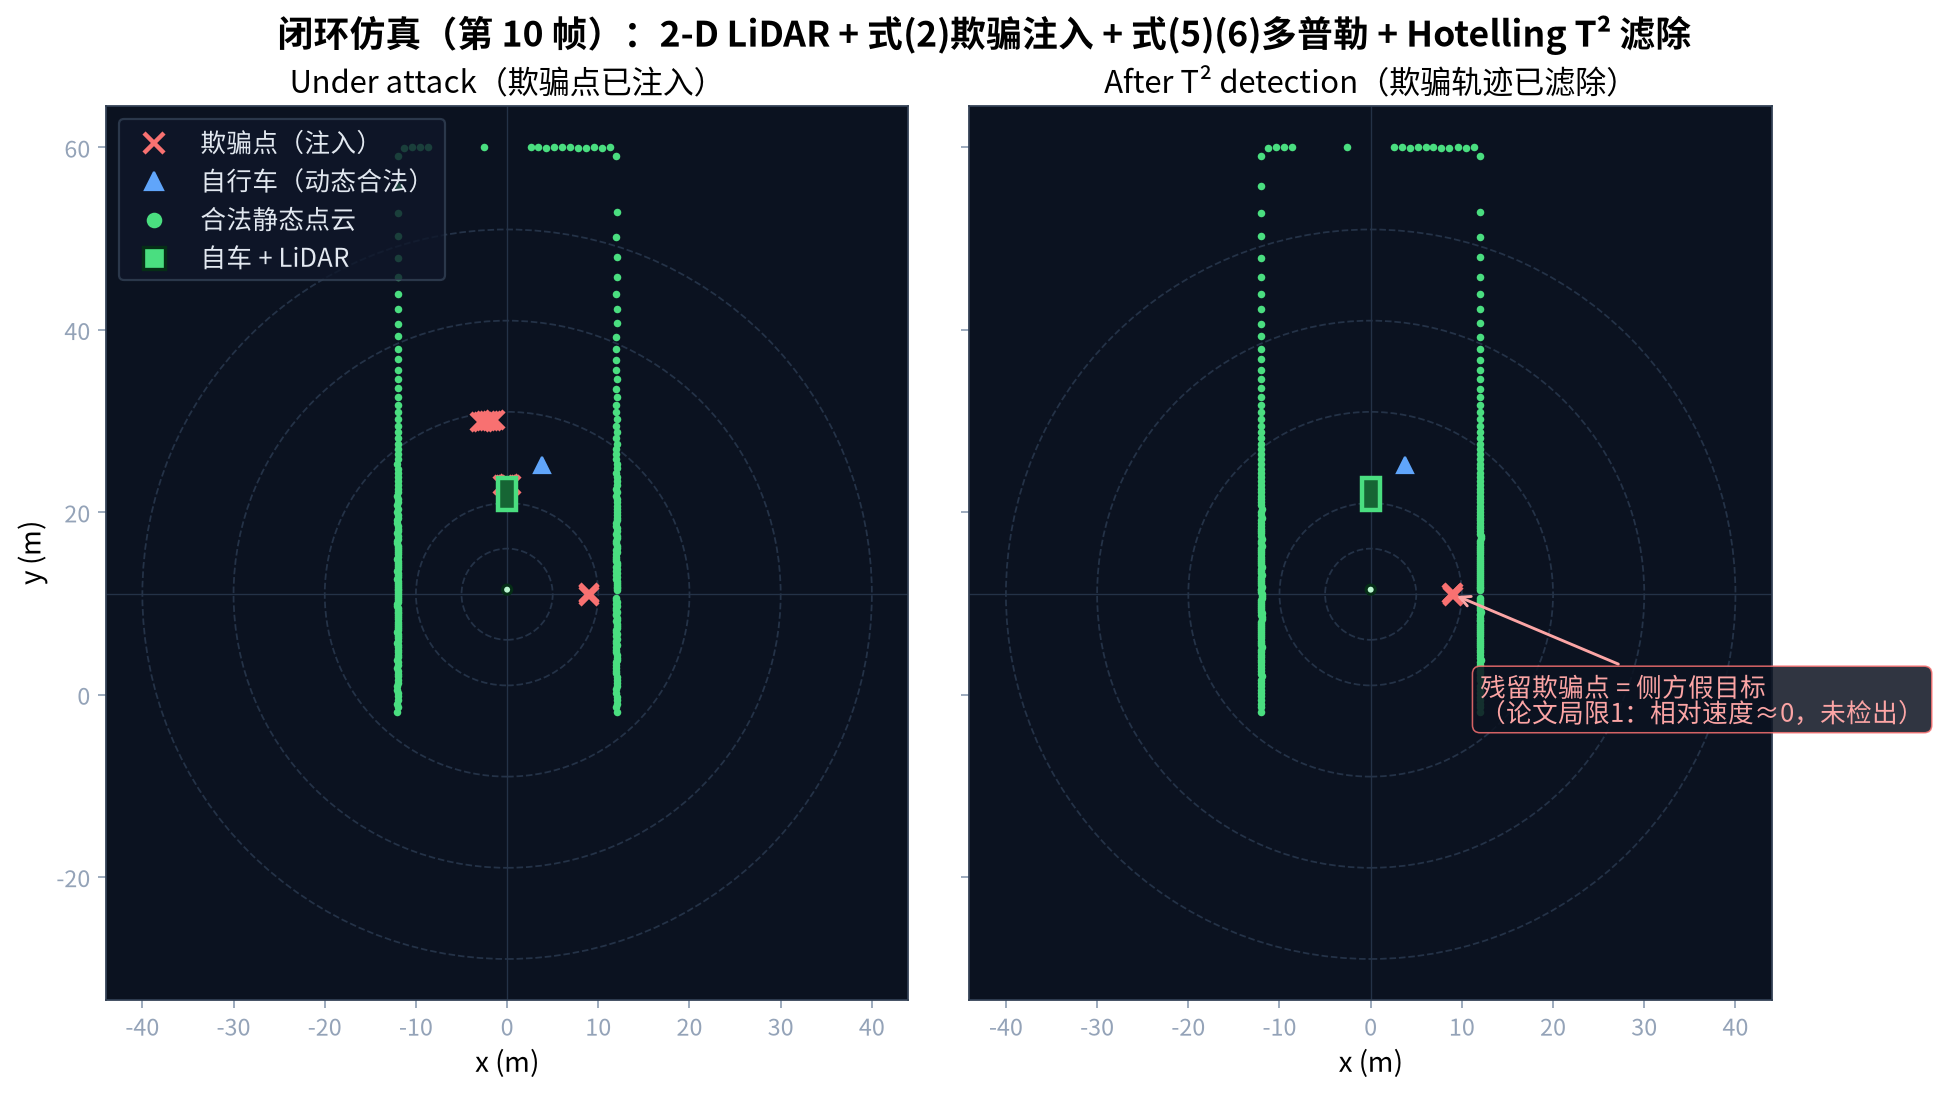
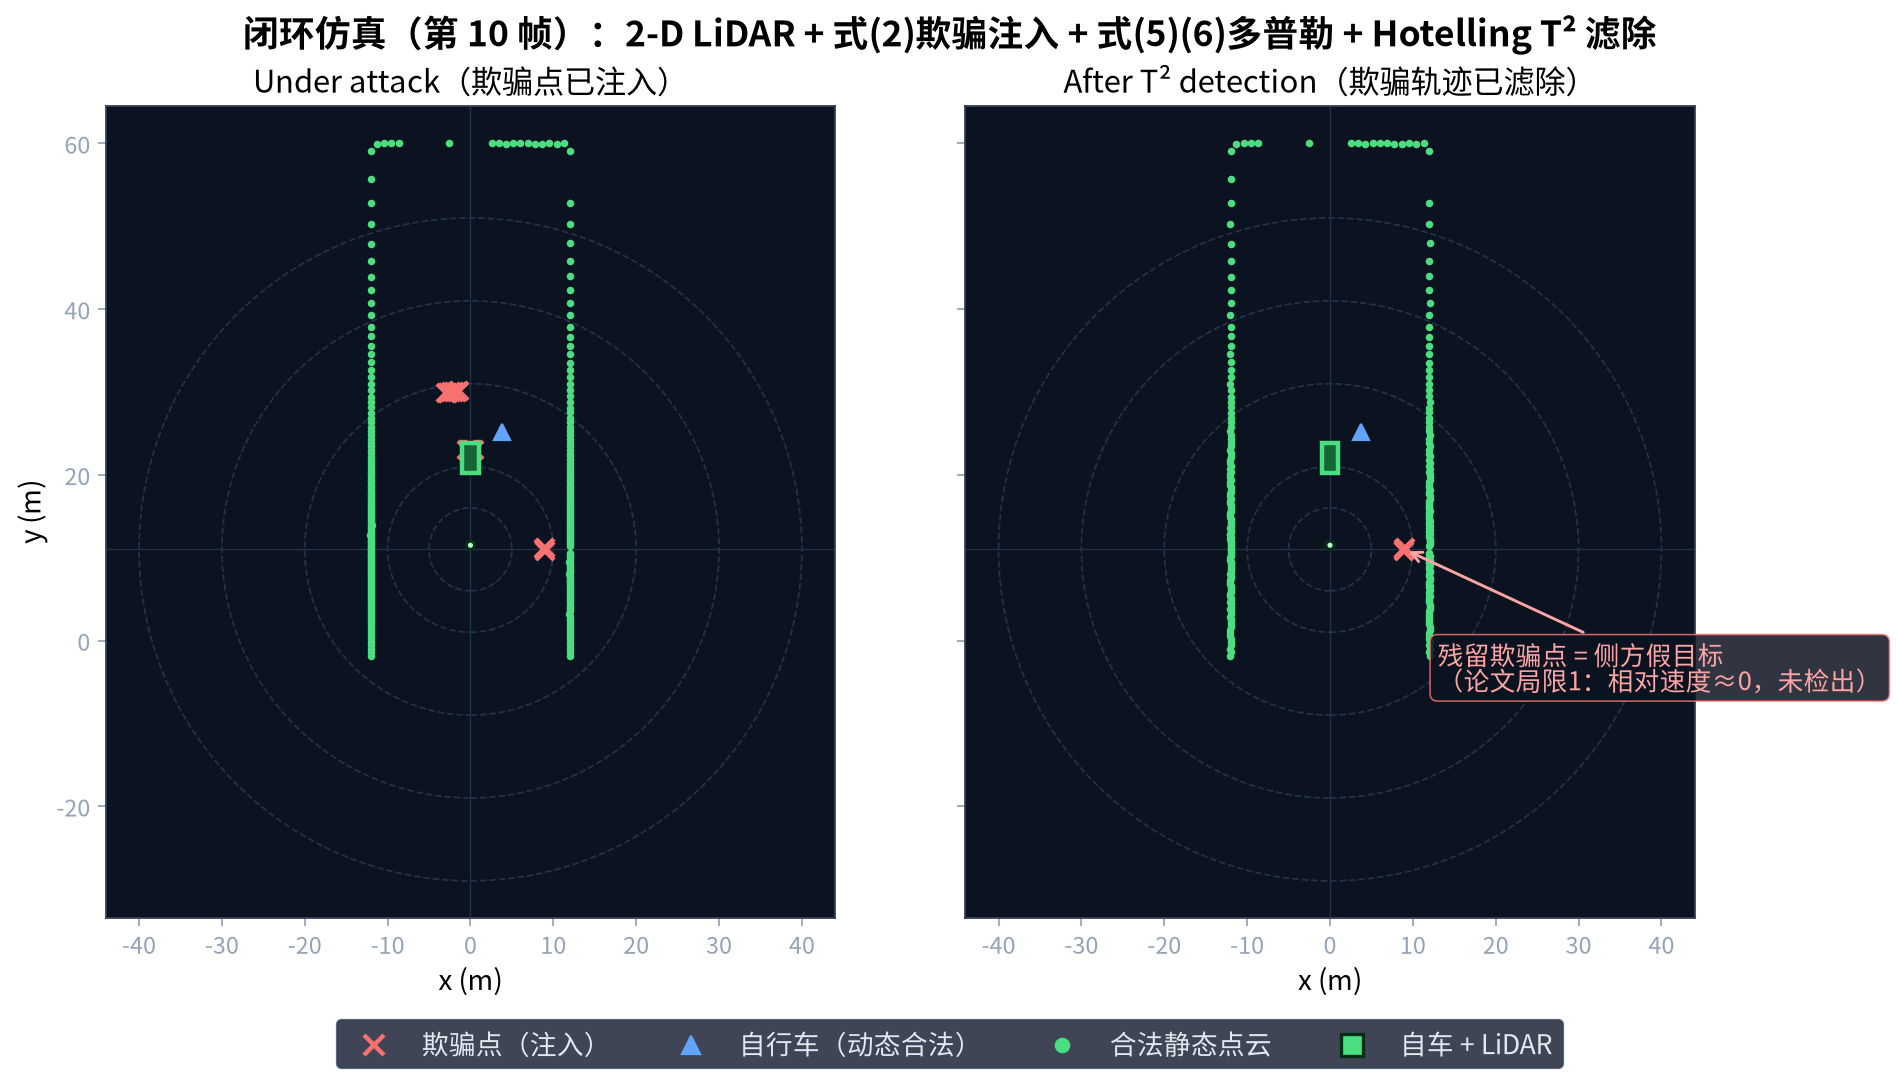
Fix text/element overlaps found in visual inspection
- virtual interferometer: beat waveform moved below the photoreceiver
  box (was covering the '+Gaussian noise' formula line)
- attack mapping panel: 'model-level' and 'formula-level' annotations
  repositioned clear of the dashed mapping arrows
- attack scene: wedge explanation moved from arrow-note (crossed the
  fake-vehicle arrow) into the subtitle; fake-wall note moved below the
  40 m ring label
- closed-loop: legend moved out of the point cloud to below both panels;
  missed-fake annotation shifted clear of the wall column
- all four re-inspected visually: no overlaps remain

diff --git a/src/hw_mapping.py b/src/hw_mapping.py
@@ -126,10 +126,10 @@ def _panel_lidar(ax):
     ax.text(21, 52, "模型级：\n测距噪声 3 cm\n1° 角分辨率", fontsize=9.5,
             ha="left", color="#6b7280")
     _arrow(ax, 41, 70, 28, 33, color=C_MAP, style="--")
-    ax.text(36, 58, "公式级：\n延时 → 假距离", fontsize=11.5, ha="right",
+    ax.text(31, 63, "公式级：\n延时 → 假距离", fontsize=11.5, ha="right",
             color="#6b7280")
     _arrow(ax, 65, 71, 47, 33, color=C_MAP, style="--")
-    ax.text(71, 52, "信号的物理\n（单程 vs 往返）", fontsize=11.5, ha="left",
+    ax.text(73, 52, "信号的物理\n（单程 vs 往返）", fontsize=11.5, ha="left",
             color="#6b7280")
     _arrow(ax, 87, 71, 82, 33, color=C_MAP, style="--")
     ax.text(96, 52, "闭环检测\n（软件新增）", fontsize=11.5, ha="right",
@@ -187,9 +187,9 @@ def _panel_virtual_interferometer(ax):
     _arrow(ax, 92.5, 53, 92.5, 42.5, color=C_SW_EDGE, lw=2)
     # 拍频示意波形（接收器内部）
     tt = np.linspace(0, 1, 80)
-    ax.plot(66 + 16 * tt, 57 + 2.2 * np.cos(2 * np.pi * 9 * tt),
-            color="#7c3aed", lw=1.6)
-    ax.text(74, 53.5, "拍频信号 @ Δf", fontsize=11, ha="center",
+    ax.plot(64 + 18 * tt, 46.5 + 2.4 * np.cos(2 * np.pi * 9 * tt),
+            color="#7c3aed", lw=1.8)
+    ax.text(73, 41.5, "拍频信号 @ Δf", fontsize=11, ha="center",
             color="#7c3aed")
     ax.text(50, 20, "全场混频 + 低通数值验证：Pout 公式残差 2.9e-3"
             "（仅低通滤波器通带下垂）",
@@ -303,7 +303,7 @@ def _draw_virtual_scene(ax_scene):
          "#4ade80")
     note("虚拟攻击器\n（<60 美元三件套）",
          tuple(attacks["ahead"]["attacker"]), (6.2, 37), "#f87171")
-    note("假静态墙\n（场景1）", tuple(attacks["static"]["pos"]), (-16.2, 37.5),
+    note("假静态墙\n（场景1）", tuple(attacks["static"]["pos"]), (-16.2, 33),
          "#f87171")
     note("前方假车\n（场景3）", (0, 12), (-16.2, 20.5), "#f87171")
     note("侧方假目标\n（局限1）", (9, 0), (10.8, -6), "#f87171")
@@ -312,7 +312,8 @@ def _draw_virtual_scene(ax_scene):
     note("红扇形 = 欺骗注入\n角窗口（式2）", (np.cos(np.deg2rad(93.8)) * 24,
          np.sin(np.deg2rad(93.8)) * 24), (-16.2, 12.5), "#fca5a5")
 
-    ax_scene.set_title("虚拟攻击场景（scan() 第 0 帧真实渲染）", fontsize=14,
+    ax_scene.set_title("虚拟攻击场景（scan() 第 0 帧真实渲染）\n"
+                       "红色扇形 = 式(2)欺骗注入的角窗口", fontsize=13.5,
                        color="#0f172a")
     ax_scene.set_xlabel("x (m)", fontsize=12)
     ax_scene.set_ylabel("y (m)", fontsize=12)

diff --git a/src/simulator.py b/src/simulator.py
@@ -273,7 +273,7 @@ def plot_closed_loop(results, scans, out_path, scan_idx=10):
         if filtered:
             miss_xy = (ego_xy[0] + 9.0, ego_xy[1])
             ax.annotate("残留欺骗点 = 侧方假目标\n（论文局限1：相对速度≈0，未检出）",
-                        xy=miss_xy, xytext=(ego_xy[0] + 12, ego_xy[1] - 14),
+                        xy=miss_xy, xytext=(ego_xy[0] + 13, ego_xy[1] - 17),
                         fontsize=11.5, color="#fca5a5", zorder=9,
                         arrowprops=dict(arrowstyle="->", color="#fca5a5",
                                         lw=1.3),
@@ -304,12 +304,12 @@ def plot_closed_loop(results, scans, out_path, scan_idx=10):
                    markeredgecolor="#052e16", markeredgewidth=1.5,
                    label="自车 + LiDAR"),
     ]
-    axes[0].legend(handles=handles, fontsize=11.5, loc="upper left",
-                   facecolor="#0f172a", edgecolor="#334155",
-                   labelcolor="#e2e8f0")
+    fig.legend(handles=handles, fontsize=12, loc="lower center", ncol=4,
+               frameon=True, facecolor="#0f172a", edgecolor="#334155",
+               labelcolor="#e2e8f0", bbox_to_anchor=(0.5, 0.0))
     fig.suptitle(f"闭环仿真（第 {scan_idx} 帧）：2-D LiDAR + 式(2)欺骗注入 + "
                  "式(5)(6)多普勒 + Hotelling T² 滤除", fontsize=16,
                  weight="bold")
-    fig.tight_layout()
+    fig.tight_layout(rect=(0, 0.075, 1, 1))
     fig.savefig(out_path, dpi=160, bbox_inches="tight")
     plt.close(fig)
